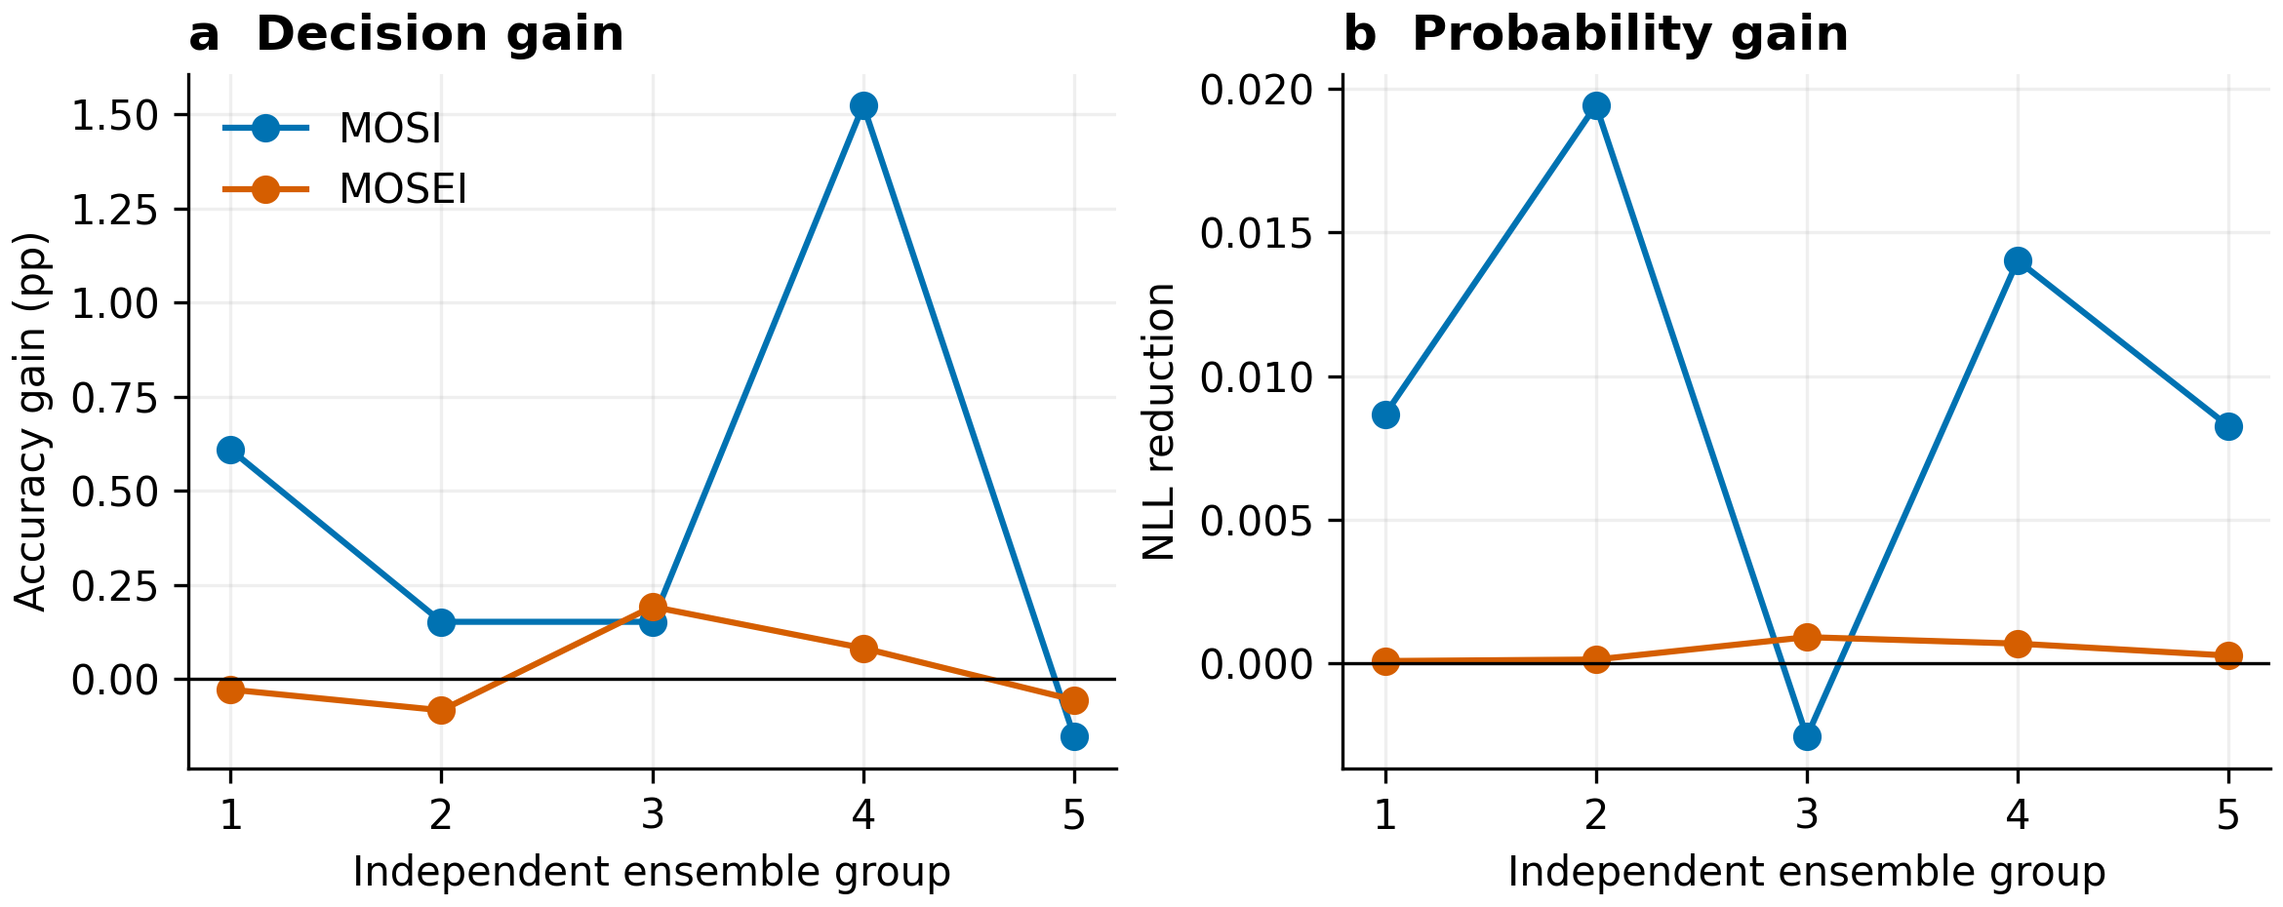
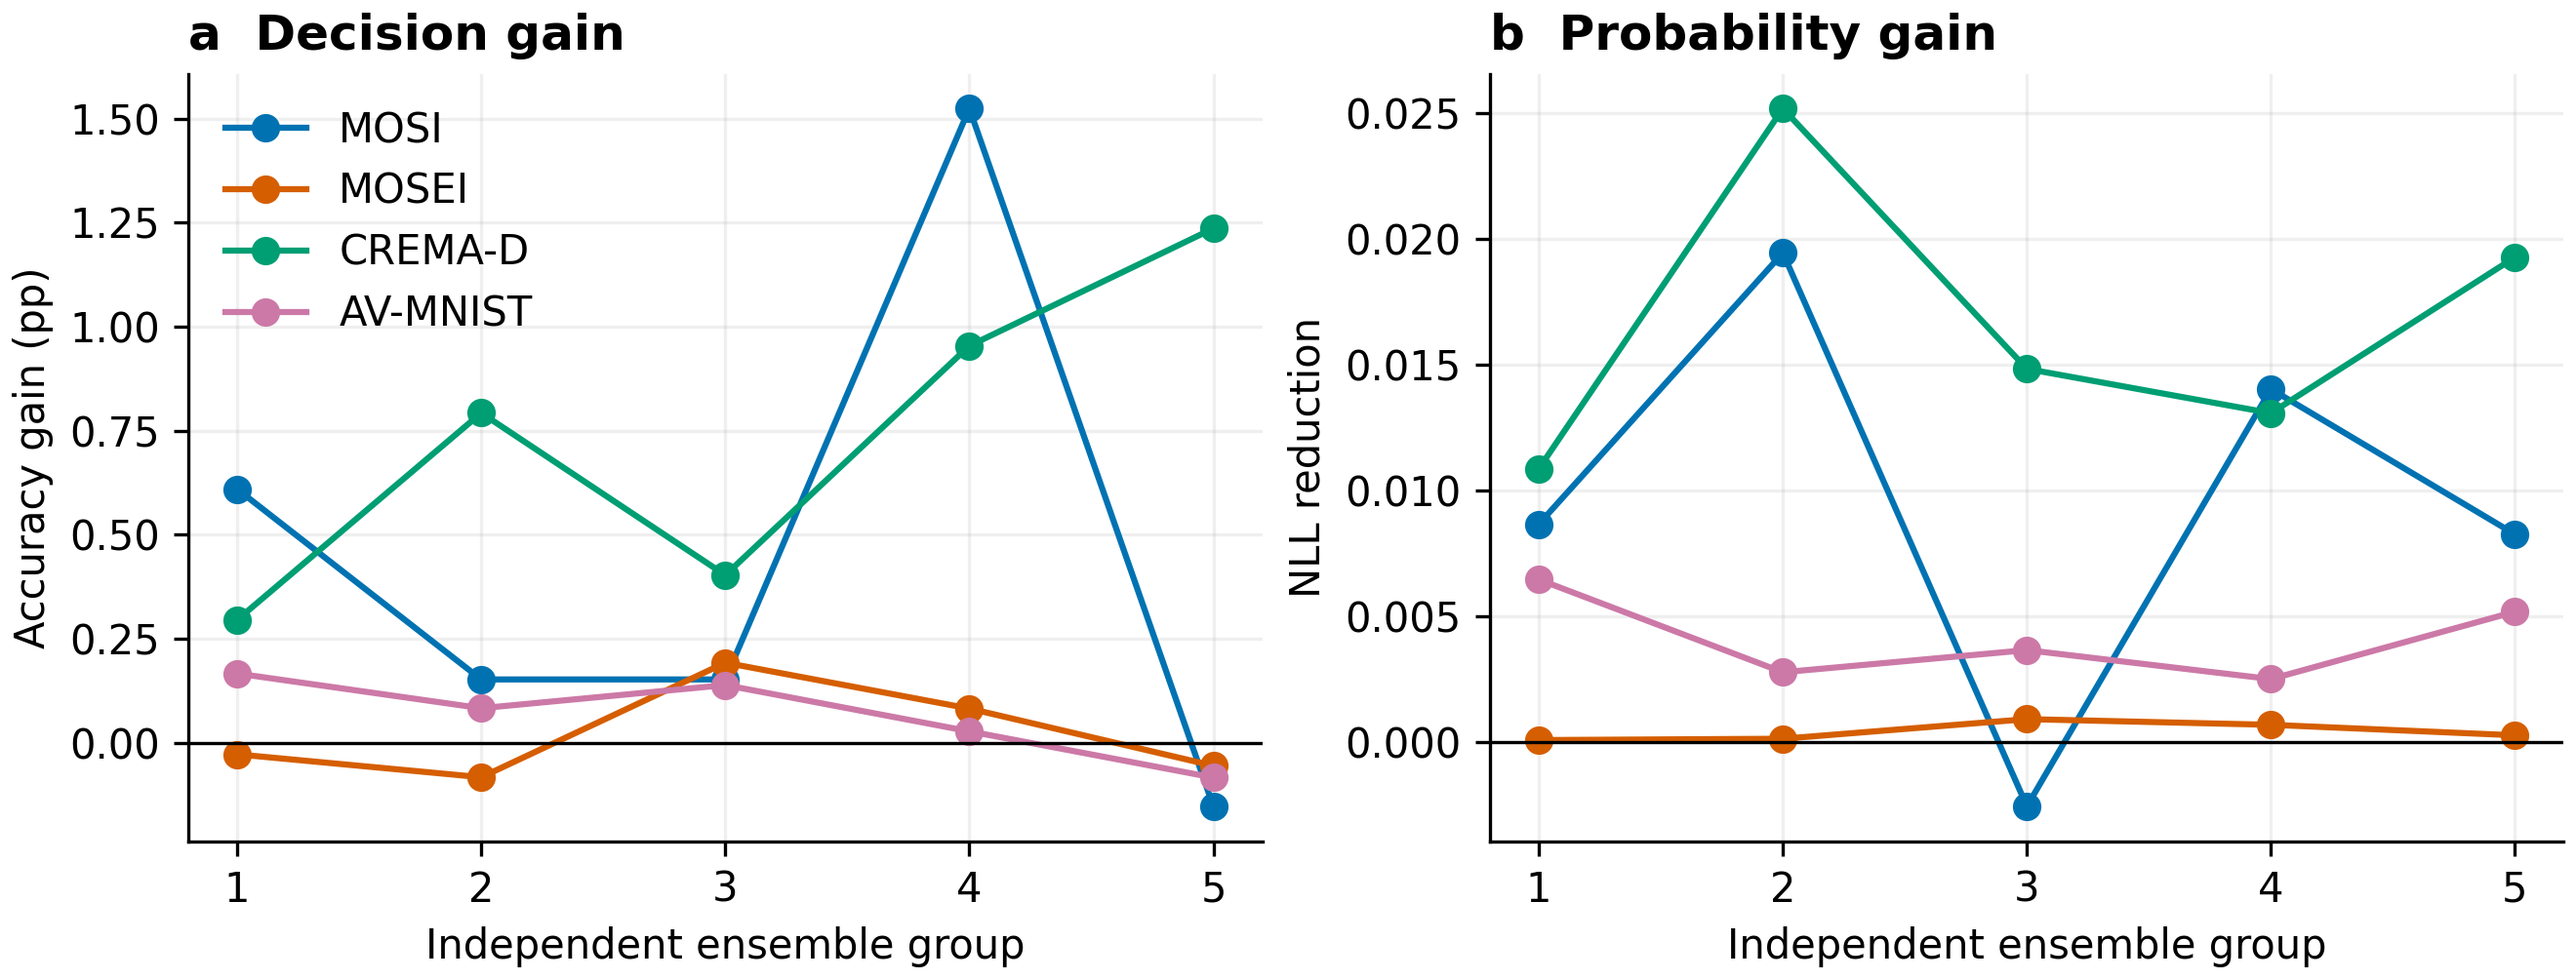
Complete four-dataset independent S1 repeats

diff --git a/scripts/analyze_s1_replicates.py b/scripts/analyze_s1_replicates.py
@@ -1,4 +1,4 @@
-"""Analyze five independent P0-v2 ensemble groups for MOSI and MOSEI."""
+"""Analyze five independent P0-v2 ensemble groups on all four datasets."""
 from __future__ import annotations
 
 from pathlib import Path
@@ -47,7 +47,7 @@ def training_ci(values):
     return mean, mean-margin, mean+margin, float(ttest_1samp(values, 0).pvalue)
 
 
-def cluster_bootstrap(frames, repetitions=10_000, seed=20261009):
+def paired_bootstrap(frames, dataset, repetitions=10_000, seed=20261009):
     base = frames[0][["fold", "sample_id", "group_or_video_id", "label"]].copy()
     values = []
     for frame in frames:
@@ -58,12 +58,20 @@ def cluster_bootstrap(frames, repetitions=10_000, seed=20261009):
         values.append(np.stack([
             np.log(np.clip(final[rows, labels], 1e-12, 1))-np.log(np.clip(full[rows, labels], 1e-12, 1)),
             (final.argmax(1) == labels).astype(float)-(full.argmax(1) == labels).astype(float)], 1))
-    values = np.mean(values, axis=0); groups = base.group_or_video_id.astype(str).to_numpy()
-    unique = np.unique(groups); index = {group: np.flatnonzero(groups == group) for group in unique}
+    values = np.mean(values, axis=0)
     rng = np.random.default_rng(seed); draws = np.empty((repetitions, 2))
-    for draw in range(repetitions):
-        sample = rng.choice(unique, len(unique), replace=True)
-        take = np.concatenate([index[group] for group in sample]); draws[draw] = values[take].mean(0)
+    if dataset == "avmnist":
+        strata = base.label.to_numpy(int)
+        index = {label: np.flatnonzero(strata == label) for label in np.unique(strata)}
+        for draw in range(repetitions):
+            take = np.concatenate([rng.choice(rows, len(rows), replace=True) for rows in index.values()])
+            draws[draw] = values[take].mean(0)
+    else:
+        groups = base.group_or_video_id.astype(str).to_numpy()
+        unique = np.unique(groups); index = {group: np.flatnonzero(groups == group) for group in unique}
+        for draw in range(repetitions):
+            sample = rng.choice(unique, len(unique), replace=True)
+            take = np.concatenate([index[group] for group in sample]); draws[draw] = values[take].mean(0)
     return {"nll_ci_low": float(np.quantile(draws[:, 0], .025)),
             "nll_ci_high": float(np.quantile(draws[:, 0], .975)),
             "accuracy_ci_low": float(np.quantile(draws[:, 1], .025)),
@@ -72,10 +80,11 @@ def cluster_bootstrap(frames, repetitions=10_000, seed=20261009):
 
 def main():
     rows, summaries = [], []
-    for dataset in ("mosi", "mosei"):
+    datasets = ("mosi", "mosei", "cremad", "avmnist")
+    for dataset in datasets:
         frames = [load(dataset, group) for group in GROUPS]
         table = pd.DataFrame([metrics(frame, group) for frame, group in zip(frames, GROUPS)])
-        rows.append(table); bootstrap = cluster_bootstrap(frames)
+        rows.append(table); bootstrap = paired_bootstrap(frames, dataset)
         acc = training_ci(table.accuracy_gain); nll = training_ci(table.nll_gain)
         summaries.append({"dataset": dataset, "accuracy_gain_mean": acc[0],
                           "accuracy_training_ci_low": acc[1], "accuracy_training_ci_high": acc[2],
@@ -87,13 +96,26 @@ def main():
     rows = pd.concat(rows, ignore_index=True); summary = pd.DataFrame(summaries)
     rows.to_csv(ROOT/"results/s1_replicates_by_group.csv", index=False)
     summary.to_csv(ROOT/"results/s1_replicates_summary.csv", index=False)
+    decisions = pd.DataFrame([
+        {"criterion": "NLL improves in all five independent groups",
+         "datasets_passed": int((summary.nll_wins == 5).sum()), "required": 3},
+        {"criterion": "training-repeat NLL 95% CI is above zero",
+         "datasets_passed": int((summary.nll_training_ci_low > 0).sum()), "required": 2},
+        {"criterion": "paired cluster/stratified NLL 95% CI is above zero",
+         "datasets_passed": int((summary.nll_ci_low > 0).sum()), "required": 3},
+        {"criterion": "training-repeat accuracy 95% CI is above zero",
+         "datasets_passed": int((summary.accuracy_training_ci_low > 0).sum()), "required": 1},
+    ])
+    decisions["pass"] = decisions.datasets_passed >= decisions.required
+    decisions.to_csv(ROOT/"results/s1_replicate_decision.csv", index=False)
 
-    fig, axes = plt.subplots(1, 2, figsize=(7.8, 3.1), constrained_layout=True)
-    colors = {"mosi": "#0072B2", "mosei": "#D55E00"}
-    for dataset in ("mosi", "mosei"):
+    fig, axes = plt.subplots(1, 2, figsize=(8.8, 3.35), constrained_layout=True)
+    colors = {"mosi": "#0072B2", "mosei": "#D55E00", "cremad": "#009E73", "avmnist": "#CC79A7"}
+    labels = {"mosi": "MOSI", "mosei": "MOSEI", "cremad": "CREMA-D", "avmnist": "AV-MNIST"}
+    for dataset in datasets:
         data = rows[rows.dataset == dataset]; x = np.arange(1, 6)
-        axes[0].plot(x, 100*data.accuracy_gain, "o-", color=colors[dataset], label=dataset.upper())
-        axes[1].plot(x, data.nll_gain, "o-", color=colors[dataset], label=dataset.upper())
+        axes[0].plot(x, 100*data.accuracy_gain, "o-", color=colors[dataset], label=labels[dataset])
+        axes[1].plot(x, data.nll_gain, "o-", color=colors[dataset], label=labels[dataset])
     for axis in axes:
         axis.axhline(0, color="black", linewidth=.8); axis.set_xticks(np.arange(1, 6))
         axis.set_xlabel("Independent ensemble group"); axis.spines[["top", "right"]].set_visible(False)

diff --git a/scripts/run_s1_replicates.py b/scripts/run_s1_replicates.py
@@ -40,9 +40,18 @@ GROUPS = {
 
 def configuration(dataset: str, group: str):
     root = ROOT/f"runs/formal-e1-{dataset}/{group}"
-    return {"base": root/"base", "posterior": root/"posterior",
-            "oof": root/"base/fold_0/oof_targets.npz",
-            "batch_size": 64 if dataset == "mosi" else 128}
+    config = {"base": root/"base", "posterior": root/"posterior",
+              "batch_size": 64 if dataset in ("mosi", "cremad") else 128}
+    # CREMA-D/AV-MNIST use the protocol-frozen multi-teacher OOF library for
+    # every independent task-training repeat. This isolates optimization
+    # randomness without silently changing the contribution target itself.
+    if dataset == "cremad":
+        config["oof_template"] = str(ROOT/"runs/formal-e2-cremad-oof/fold_{fold}/oof_targets.npz")
+    elif dataset == "avmnist":
+        config["oof"] = ROOT/"runs/formal-e2-avmnist-oof/oof_targets.npz"
+    else:
+        config["oof"] = root/"base/fold_0/oof_targets.npz"
+    return config
 
 
 def selected_strength(e6_root: Path, fold: int, seed: int) -> float:
@@ -122,6 +131,12 @@ def run(dataset: str, group: str, device: str):
     seeds = GROUPS[group]; cfg = configuration(dataset, group)
     e4.CONFIGS[dataset] = cfg; e5.CONFIGS[dataset] = cfg; e6.CONFIGS[dataset] = cfg
     e4.SEEDS = seeds; e5.SEEDS = seeds; e6.SEEDS = seeds
+    # Independent system repeats need only the deployed mixer. E5's other
+    # variants are ablations already covered by I3-1 and would multiply this
+    # confirmation run without changing the final prediction.
+    e5.BASELINES = ()
+    e5.LEARNED = {"anchored_harm_oracle": {
+        "anchor_full": True, "harm_weight": 2., "oracle_weight": .05}}
     root = ROOT/f"runs/formal-s1-replicates/{dataset}/{group}"
     e5_root, e6_root = root/"e5", root/"e6"
     e5.run_dataset(dataset, device, output_root=e5_root)
@@ -130,11 +145,12 @@ def run(dataset: str, group: str, device: str):
 
 
 def main():
-    parser = argparse.ArgumentParser(); parser.add_argument("--dataset", choices=("mosi", "mosei", "all"), default="all")
+    parser = argparse.ArgumentParser(); parser.add_argument(
+        "--dataset", choices=("mosi", "mosei", "cremad", "avmnist", "all"), default="all")
     parser.add_argument("--group", choices=(*GROUPS, "all"), default="all")
     parser.add_argument("--device", default="cuda"); args = parser.parse_args()
     device = args.device if args.device == "cpu" or torch.cuda.is_available() else "cpu"
-    datasets = ("mosi", "mosei") if args.dataset == "all" else (args.dataset,)
+    datasets = ("mosi", "mosei", "cremad", "avmnist") if args.dataset == "all" else (args.dataset,)
     groups = tuple(GROUPS) if args.group == "all" else (args.group,)
     for dataset in datasets:
         for group in groups: run(dataset, group, device)

diff --git a/results/SUPPLEMENTARY_EXPERIMENT_COMPLETION.md b/results/SUPPLEMENTARY_EXPERIMENT_COMPLETION.md
@@ -1,0 +1,60 @@
+# RCG-Fusion 补充实验完成审计
+
+审计日期：2026-10-10  
+最终方法版本：`rcg-fusion-a8-v2`
+
+## 1. 执行范围
+
+本审计覆盖 `P0`、`I1-1`、`I1-2`、`I2-1`、`I2-2`、`I2-3`、`I3-1`、`I3-2`、`I3-3`、`S1`、`S2`、`S3`、`S4`、`S5` 和 `S6`。四个数据集均为现有固定表示协议：CMU-MOSI、CMU-MOSEI、CREMA-D 和 AV-MNIST。
+
+## 2. 逐项证据
+
+| 项目 | 状态 | 决定性证据 | 主要产物 |
+|---|---|---|---|
+| P0 最终系统统一 | 完成 | 四数据集预测均登记 `method_version`、SHA-256 和统一推理路径 | `p0_final_system_registry.csv/json` |
+| I1-1 OOF监督可信性 | 完成 | 四数据集六版本；软目标方差降低，OOF隔离和教师分歧已审计 | `i1_1_supervision_*.csv`、`i1_1_supervision_report.md` |
+| I1-2 下游传递 | 完成 | 固定后续结构，只替换监督版本；MOSI/MOSEI小幅正传递，CREMA-D/AV-MNIST安全持平 | `i1_2_downstream_*.csv`、`i1_2_downstream_report.md` |
+| I2-1 解析贡献识别 | 完成 | AUROC增益、5/5种子、Top-20%富集和十分位顺序四项预注册判据全部通过 | `i2_1_decision.csv`、`i2_1_report.md` |
+| I2-2 列表式残差路由 | 完成 | MOSI/MOSEI候选恢复显著提高，饱和任务无明显破坏 | `i2_2_decision.csv`、`i2_2_report.md` |
+| I2-3 上下文依赖 | 完成 | 可靠性严格不变；解析贡献在四数据集追踪真实贡献变化 | `i2_3_decision.csv`、`i2_3_report.md` |
+| I3-1 候选融合 | 完成 | 完整软mixer在4/4数据集优于最佳硬路由；纠错率均高于负向翻转 | `i3_1_decision.csv`、`i3_1_report.md` |
+| I3-2 匹配损害预算 | 完成 | 贡献概率控制4/4进入Pareto前沿，3/4在2%预算胜过简单控制 | `i3_2_decision.csv`、`i3_2_report.md` |
+| I3-3 稳定聚合与回退 | 完成 | 3/4优于A7等权、4/4优于完整集成，非负约束降低尾部损害 | `i3_3_decision.csv`、`i3_3_report.md` |
+| S1 干净主结果 | 完成 | 全外部基线、四数据集五组独立五成员复验、训练重复CI与配对bootstrap | `s1_clean_*`、`s1_replicates_*`、`s1_replicate_decision.csv` |
+| S2 连续退化 | 完成 | clean-only与共享增强两协议，四种五成员强基线，A7/A8分布匹配规则 | `s2_condition_metrics.csv`、`s2_robustness_summary.csv` |
+| S3 模态缺失 | 完成 | 全部合法联盟、精确单联盟回退和强基线缺失适配 | `s3_missing_summary.csv`、`s3_missing_bootstrap.csv` |
+| S4 骨干迁移 | 完成 | 五骨干、MOSI与CREMA-D；样本级完整RCG在10/10组合降低NLL | `s4_transfer_metrics.csv`、`s4_transfer_bootstrap.csv` |
+| S5 三链消融 | 完成 | 监督、路由、决策三条链分别归因，A8统一为P0 v2 | `s5_three_chain_ablation.csv` |
+| S6 效率 | 完成 | 单成员、蒸馏、五成员、五类外部骨干以及每0.01 NLL的增量延迟 | `s6_*.csv` |
+
+## 3. S1独立重复结论
+
+| 数据集 | Accuracy增益均值 | Accuracy训练组95% CI | NLL改善均值 | NLL训练组95% CI | NLL胜场 |
+|---|---:|---:|---:|---:|---:|
+| MOSI | +0.46 pp | [-0.36, +1.27] pp | +0.00957 | [-0.00057, 0.01971] | 4/5 |
+| MOSEI | +0.02 pp | [-0.12, +0.16] pp | +0.00042 | [-0.00004, 0.00087] | 5/5 |
+| CREMA-D | +0.74 pp | [+0.25, +1.22] pp | +0.01664 | [0.00959, 0.02370] | 5/5 |
+| AV-MNIST | +0.07 pp | [-0.06, +0.19] pp | +0.00411 | [0.00203, 0.00620] | 5/5 |
+
+CREMA-D同时获得分类决策和概率质量的跨训练重复支持；AV-MNIST获得概率质量支持。MOSI的效应幅度较大但训练组区间略跨零；MOSEI方向一致但效应很小。
+
+## 4. 未通过的论文级强判据
+
+实验执行完成不等于所有顶会级性能假设均通过。相对每个数据集最强计算匹配外部基线：
+
+- RCG-Fusion在3/4数据集取得最低数值NLL，但单系统配对CI没有在3个数据集排除零；
+- Accuracy只在MOSI超过最强Accuracy基线；
+- CREMA-D统一骨干的Accuracy低于TMC，但S4中 `TMC + RCG` 能在保留强骨干的条件下降低NLL；
+- MOSEI最终增益过小，不能作为主要性能证据；
+- 五成员完整系统的推理开销高，蒸馏学生尚未完全恢复教师性能。
+
+因此可直接支撑的核心主张是：三个模块分别在监督可信性、条件贡献识别、候选覆盖、匹配损害预算和跨骨干NLL校正上提供证据；不能声称完整系统在所有数据集上显著提高Accuracy，也不能将小幅MOSEI改善包装为实质提升。
+
+## 5. 完整性检查
+
+- 自动化测试：87项通过；
+- 实验章节引用PNG：35张全部存在、300 dpi、白底且alpha全不透明；
+- 数据目录由 `.gitignore` 排除；
+- 训练检查点和大体积逐样本运行记录保留在本地 `runs/`，不上传GitHub；
+- 可复算统计CSV、Markdown报告和论文PNG纳入版本控制。
+
